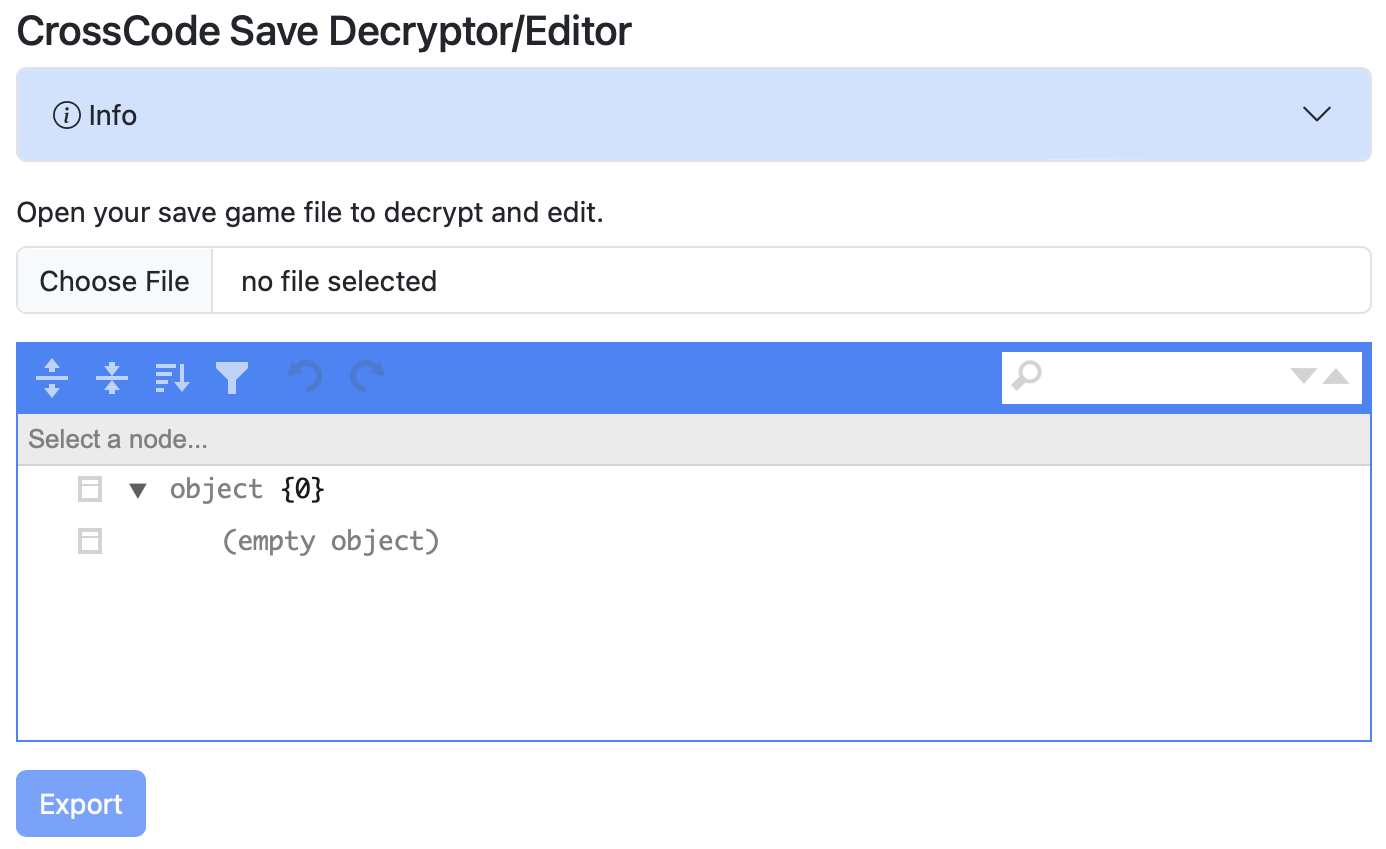
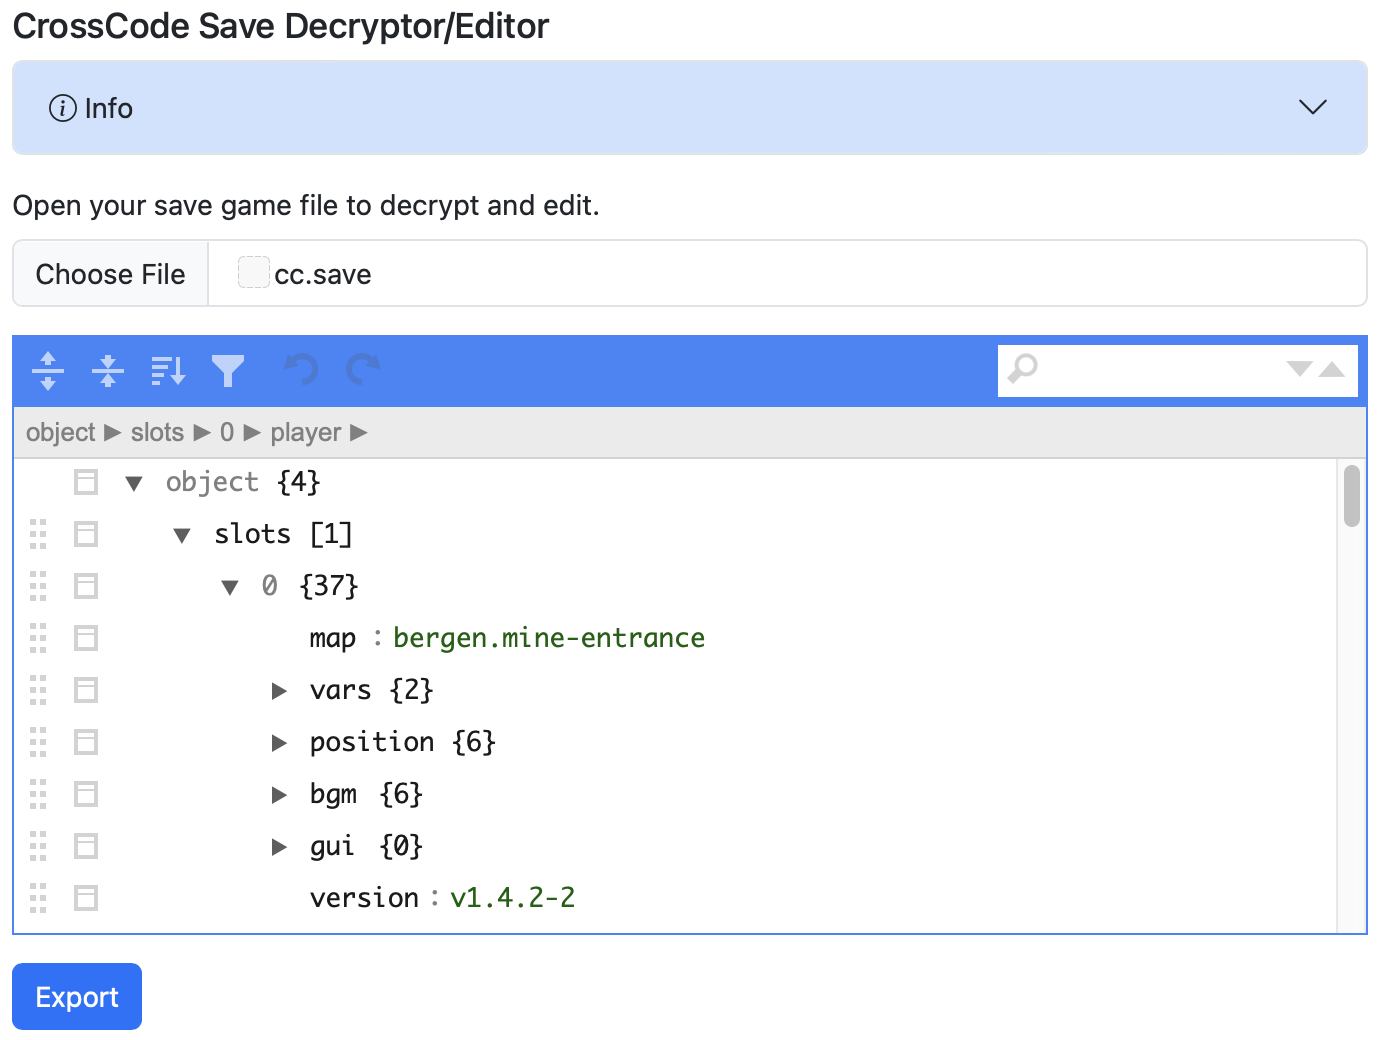
Minor updates to README; updated screenshot

Changed region(s): [[0.0, 0.0, 0.9957, 1.0], [0.1867, 0.7044, 0.3734, 0.8269]]

diff --git a/README.md b/README.md
@@ -1,9 +1,9 @@
-Decrypts the CrossCode save game file (`cc.save`) to allow easier editing.  The game already supports reading either encrypted or decrypted save games with no modifications required.
+Decrypts the CrossCode save game file (`cc.save`) and provides a basic JSON editor for making changes.  The game already supports reading either encrypted or decrypted save games with no modifications required.
 
 # Info
 Basic details of the CrossCode save game location and format can be found here: <a href="https://crosscode.fandom.com/wiki/Savegame">https://crosscode.fandom.com/wiki/Savegame</a>
 
-CrossCode save games are located in the cc.save file in these locations:
+CrossCode save games are located in the `cc.save` file in these locations:
 
 <table class="table table-bordered table-sm">
     <thead>
@@ -32,12 +32,12 @@ CrossCode save games are located in the cc.save file in these locations:
     </tbody>
 </table>
 
-The `cc.save` file is a JSON file, but the values are prefixed with an indicator string (`[-!_0_!-]`), base64 encoded and AES encrypted.  However, the game already supports reading either these encrypted strings *or* plain JSON.  This editor takes advantage of this and will leave the file unencrypted to make editing it much easier.
+The `cc.save` file is a JSON file, but the values are prefixed with an indicator string (`[-!_0_!-]`), base64 encoded and AES encrypted.  However, the game already supports reading either these encrypted string values *or* plain JSON objects.  The editor takes advantage of this and will export an unencrypted file which the game can read.
 
 # How To Use
   1. Backup your original `cc.save` file.
   2. Download or clone this repo and open <a href="./index.html">index.html</a> in your browser.
-  2. Click *Choose File* and load your save file.  Any encrypted values will be decrypted, converted into plain JSON and displayed in the editor below.
+  2. Click *Choose File* and load your save file.  Any encrypted values will be decrypted, converted into plain JSON and displayed in the editor.
   3. Make any changes you want.
   4. Click *Export* to download the decrypted (and edited) file
   5. Overwrite your original `cc.save` file.
